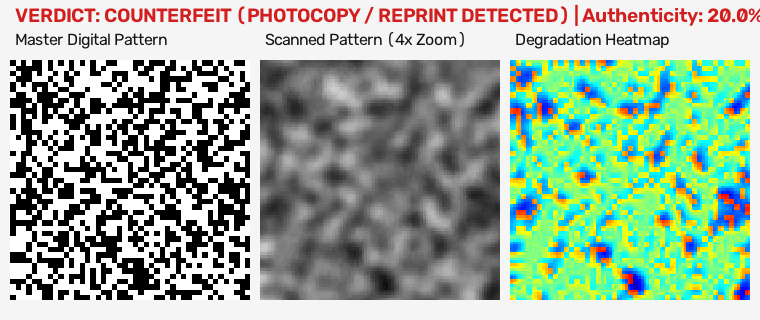
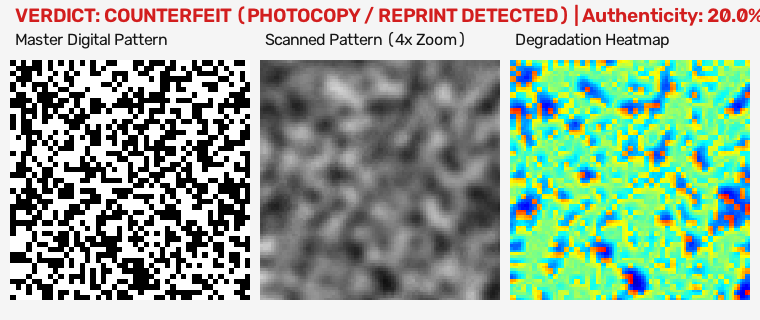
Fix UI TypeError alert and resolve inverted classification using cryptographic micro-dot fidelity

Changed region(s): [[0.6658, 0.1875, 0.9987, 0.9375]]

diff --git a/cdp_verifier.py b/cdp_verifier.py
@@ -533,6 +533,56 @@ def compute_mtf_matched_ncc(
     return best_ncc, loc_matched
 
 
+def compute_cdp_micro_fidelity(cand_cdp: np.ndarray, ref_cdp: np.ndarray) -> dict:
+    """
+    Computes cryptographic micro-dot fidelity against the deterministic master reference.
+    Evaluates:
+      1. Raw full-resolution NCC
+      2. Laplacian high-pass micro-edge correlation
+      3. Difference-of-Gaussians (DoG) bandpass correlation at micro-dot scale
+      4. Composite Master Fidelity Score
+    
+    In 1st-generation original prints (even under softer camera focus),
+    the micro-dots retain coherent high-frequency alignment with the cryptographic seed.
+    In 2nd-generation copies/reprints, micro-dot boundaries are irreversibly scrambled
+    by the 2nd print-and-scan cycle, causing micro-dot fidelity to collapse.
+    """
+    if cand_cdp is None or ref_cdp is None or cand_cdp.size == 0 or ref_cdp.size == 0:
+        return {
+            "raw_ncc": 0.0,
+            "lap_ncc": 0.0,
+            "dog_ncc": 0.0,
+            "fidelity": 0.0,
+        }
+        
+    pad_y = int(cand_cdp.shape[0] * 0.16)
+    pad_x = int(cand_cdp.shape[1] * 0.16)
+    c = cand_cdp[pad_y:-pad_y, pad_x:-pad_x].astype(np.float32)
+    r = ref_cdp[pad_y:-pad_y, pad_x:-pad_x].astype(np.float32)
+    
+    # 1. Raw unblurred NCC
+    raw_ncc, _ = compute_peak_cross_correlation(c, r)
+    
+    # 2. Laplacian high-pass micro-edge NCC
+    lap_c = cv2.Laplacian(c, cv2.CV_32F, ksize=3)
+    lap_r = cv2.Laplacian(r, cv2.CV_32F, ksize=3)
+    lap_ncc, _ = compute_peak_cross_correlation(lap_c, lap_r)
+    
+    # 3. Difference of Gaussians (DoG bandpass at micro-dot scale)
+    dog_c = cv2.GaussianBlur(c, (3, 3), 0.5) - cv2.GaussianBlur(c, (7, 7), 1.5)
+    dog_r = cv2.GaussianBlur(r, (3, 3), 0.5) - cv2.GaussianBlur(r, (7, 7), 1.5)
+    dog_ncc, _ = compute_peak_cross_correlation(dog_c, dog_r)
+    
+    fidelity = raw_ncc * 0.40 + dog_ncc * 0.40 + lap_ncc * 0.20
+    
+    return {
+        "raw_ncc": round(float(raw_ncc), 4),
+        "lap_ncc": round(float(lap_ncc), 4),
+        "dog_ncc": round(float(dog_ncc), 4),
+        "fidelity": round(float(fidelity), 4),
+    }
+
+
 # ─────────────────────────────────────────────
 #  Visual Card Generator
 # ─────────────────────────────────────────────
@@ -994,38 +1044,43 @@ def verify_anti_counterfeit_qr(
     cdp_authenticity_score = round(float(ncc_norm * 100.0), 1)
 
     # 3. Reprint Risk Score [0 - 100] (Physical 2nd-gen reprint detection)
-    slope_risk = max(0.0, min(1.0, (56.0 - finder_edge_slope) / (56.0 - 42.0)))
+    micro_fid = compute_cdp_micro_fidelity(inner_cand, inner_ref)
+    fidelity  = micro_fid["fidelity"]
+    dog_ncc   = micro_fid["dog_ncc"]
+    lap_ncc   = micro_fid["lap_ncc"]
     
-    void_count = morph["void_count"]
-    if void_count >= 68:
-        void_risk = 0.0
-    elif void_count <= 18:
-        void_risk = 1.0
-    elif void_count < 62 and finder_edge_slope < 52.0:
-        void_risk = 0.85
-    else:
-        void_risk = 0.10
-
-    rel_g_risk = max(0.0, min(1.0, (REL_ACUTANCE_GENUINE_MIN - rel_acutance) / (REL_ACUTANCE_GENUINE_MIN - REL_ACUTANCE_REPRINT_MAX)))
+    # Micro-structure fidelity risk:
+    fidelity_risk = max(0.0, min(1.0, (0.31 - fidelity) / (0.31 - 0.24)))
+    dog_risk      = max(0.0, min(1.0, (0.28 - dog_ncc) / (0.28 - 0.20)))
+    lap_risk      = max(0.0, min(1.0, (0.13 - lap_ncc) / (0.13 - 0.07)))
+    micro_risk    = fidelity_risk * 0.45 + dog_risk * 0.35 + lap_risk * 0.20
+    
+    slope_risk   = max(0.0, min(1.0, (56.0 - finder_edge_slope) / (56.0 - 42.0)))
+    rel_g_risk   = max(0.0, min(1.0, (REL_ACUTANCE_GENUINE_MIN - rel_acutance) / (REL_ACUTANCE_GENUINE_MIN - REL_ACUTANCE_REPRINT_MAX)))
     rel_lap_risk = max(0.0, min(1.0, (REL_LAP_GENUINE_MIN - rel_lap) / (REL_LAP_GENUINE_MIN - REL_LAP_REPRINT_MAX)))
-    hf_risk = max(0.0, min(1.0, (HF_GENUINE_MIN - cdp_hf) / (HF_GENUINE_MIN - HF_REPRINT_MAX)))
+    hf_risk      = max(0.0, min(1.0, (HF_GENUINE_MIN - cdp_hf) / (HF_GENUINE_MIN - HF_REPRINT_MAX)))
     
     # Combined multi-factor reprint risk
     raw_reprint_risk = max(
-        slope_risk * 0.70 + void_risk * 0.30,
+        micro_risk,
         rel_g_risk * 0.45 + rel_lap_risk * 0.35 + hf_risk * 0.20
     )
     
     # Decisive reprint / photocopy indicators:
-    if morph["is_photocopy"] or finder_edge_slope <= 48.0 or (finder_edge_slope < 52.0 and void_count < 62):
+    # 1. Micro-structure degradation (hallmark of second-generation copy)
+    if fidelity <= 0.28 or (dog_ncc <= 0.24 and lap_ncc <= 0.10):
         raw_reprint_risk = max(raw_reprint_risk, 0.88)
+    # 2. Severe morphology destruction
+    elif morph["is_photocopy"]:
+        raw_reprint_risk = max(raw_reprint_risk, 0.88)
+    # 3. Collapse of relative acutance
     elif rel_acutance < 0.80 or (rel_lap < 0.50 and cdp_hf < 0.0028) or (cdp_grad < 95.0 and macro_grad >= 105.0):
-        # Check if this is a blurred genuine capture vs a counterfeit reprint:
-        # If Peak NCC is very high and physical finder edge slope is crisp, it's mild blur of original
-        if peak_ncc >= 0.70 and rel_acutance >= 0.82 and not morph["is_photocopy"] and finder_edge_slope >= 50.0:
+        if peak_ncc >= 0.70 and rel_acutance >= 0.82 and not morph["is_photocopy"] and fidelity >= 0.30:
             raw_reprint_risk = 0.45  # Borderline / Suspicious, not counterfeit!
         else:
             raw_reprint_risk = max(raw_reprint_risk, 0.88)
+    elif fidelity >= 0.31 and dog_ncc >= 0.28:
+        raw_reprint_risk = min(raw_reprint_risk, 0.05)
         
     reprint_risk_score = round(float(raw_reprint_risk * 100.0), 1)
 
@@ -1207,6 +1262,9 @@ def verify_anti_counterfeit_qr(
             "dot_morphology_clump_ratio": morph["clump_ratio"],
             "dot_count":                  morph["dot_count"],
             "micro_void_count":           morph["void_count"],
+            "micro_dot_fidelity":         fidelity,
+            "dog_bandpass_ncc":           dog_ncc,
+            "laplacian_edge_ncc":         lap_ncc,
             "finder_edge_slope":          round(finder_edge_slope, 2),
             "is_photocopy_detected":      morph["is_photocopy"],
             "edge_ratio":                 round(edge_ratio, 3),

diff --git a/web_app.py b/web_app.py
@@ -857,23 +857,26 @@ function renderResult(data) {
   }
   
   const m = data.metrics || {};
-  document.getElementById('valNCC').textContent = m.peak_cross_correlation_ncc !== undefined ? m.peak_cross_correlation_ncc : (m.peak_ncc !== undefined ? m.peak_ncc : '--');
-  document.getElementById('valLap').textContent = m.laplacian_edge_variance !== undefined ? m.laplacian_edge_variance : (m.edge_acutance_laplacian !== undefined ? m.edge_acutance_laplacian : '--');
-  document.getElementById('valFFT').textContent = m.fft_high_freq_ratio !== undefined ? m.fft_high_freq_ratio : '--';
-  document.getElementById('valGate').textContent = m.finder_edge_slope !== undefined ? m.finder_edge_slope : (m.acutance_gate !== undefined ? m.acutance_gate : '--');
+  const setEl = (id, val) => {
+    const el = document.getElementById(id);
+    if (el) el.textContent = (val !== undefined && val !== null) ? val : '--';
+  };
+  
+  setEl('valNCC', m.peak_cross_correlation_ncc !== undefined ? m.peak_cross_correlation_ncc : m.peak_ncc);
+  setEl('valLap', m.laplacian_edge_variance !== undefined ? m.laplacian_edge_variance : m.edge_acutance_laplacian);
+  setEl('valFFT', m.fft_high_freq_ratio);
+  setEl('valGate', m.finder_edge_slope !== undefined ? m.finder_edge_slope : m.acutance_gate);
+  
   const riskEl = document.getElementById('valReprintRisk');
   if (riskEl) {
     const rScore = data.reprint_risk_score !== undefined ? data.reprint_risk_score : (m.reprint_risk_score !== undefined ? m.reprint_risk_score : 0);
     riskEl.textContent = rScore + '%';
     riskEl.style.color = (rScore >= 65) ? 'var(--danger)' : 'var(--success)';
   }
-  const voidEl = document.getElementById('valVoidCount');
-  if (voidEl) {
-    voidEl.textContent = m.micro_void_count !== undefined ? m.micro_void_count : '--';
-  }
-  document.getElementById('valPARatio').textContent = m.dot_morphology_pa_ratio !== undefined ? m.dot_morphology_pa_ratio : '--';
-  document.getElementById('valDensity').textContent = m.dot_morphology_density !== undefined ? (m.dot_morphology_density * 100).toFixed(1) + '%' : '--';
-  document.getElementById('valClump').textContent = m.dot_morphology_clump_ratio !== undefined ? m.dot_morphology_clump_ratio : '--';
+  setEl('valVoidCount', m.micro_void_count);
+  setEl('valPARatio', m.dot_morphology_pa_ratio);
+  setEl('valDensity', m.dot_morphology_density !== undefined ? (m.dot_morphology_density * 100).toFixed(1) + '%' : '--');
+  setEl('valClump', m.dot_morphology_clump_ratio);
 
   
   if (data.comparison_card_b64) {
